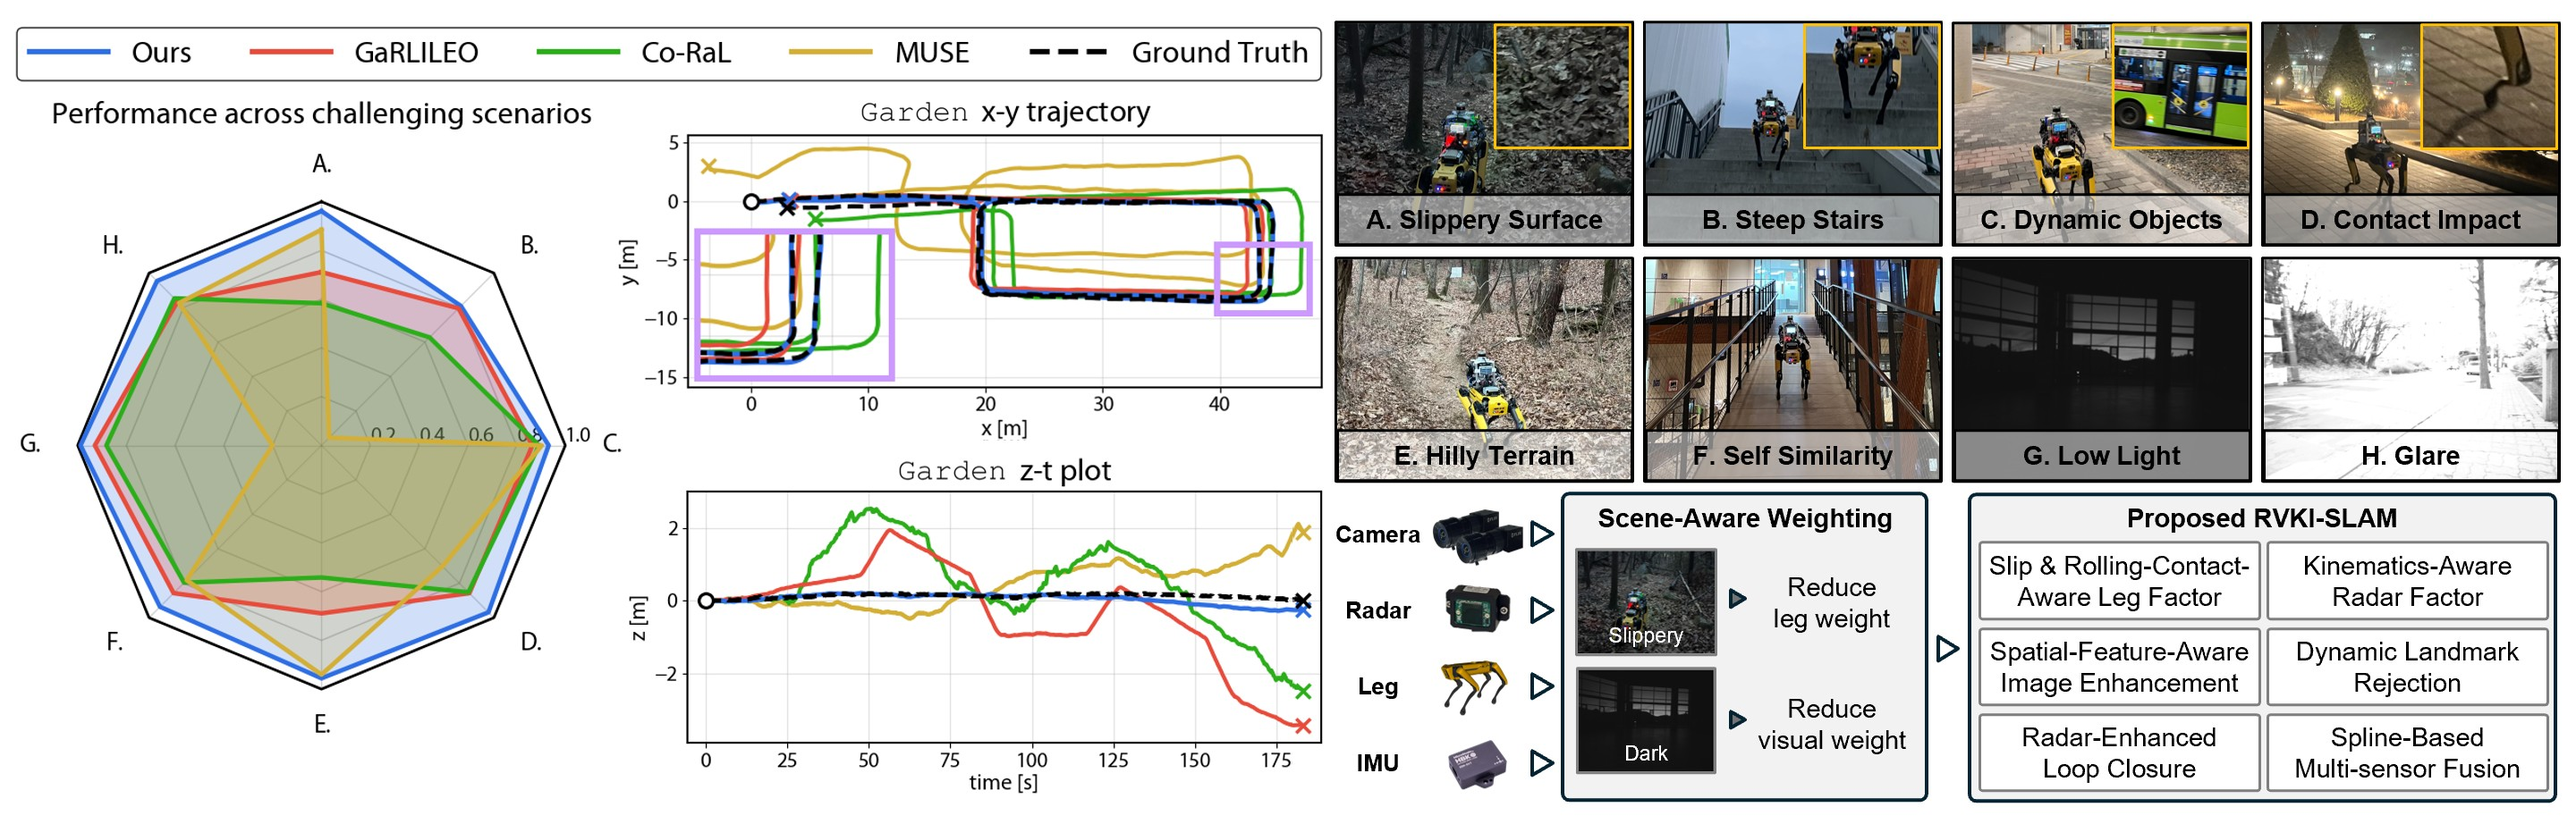
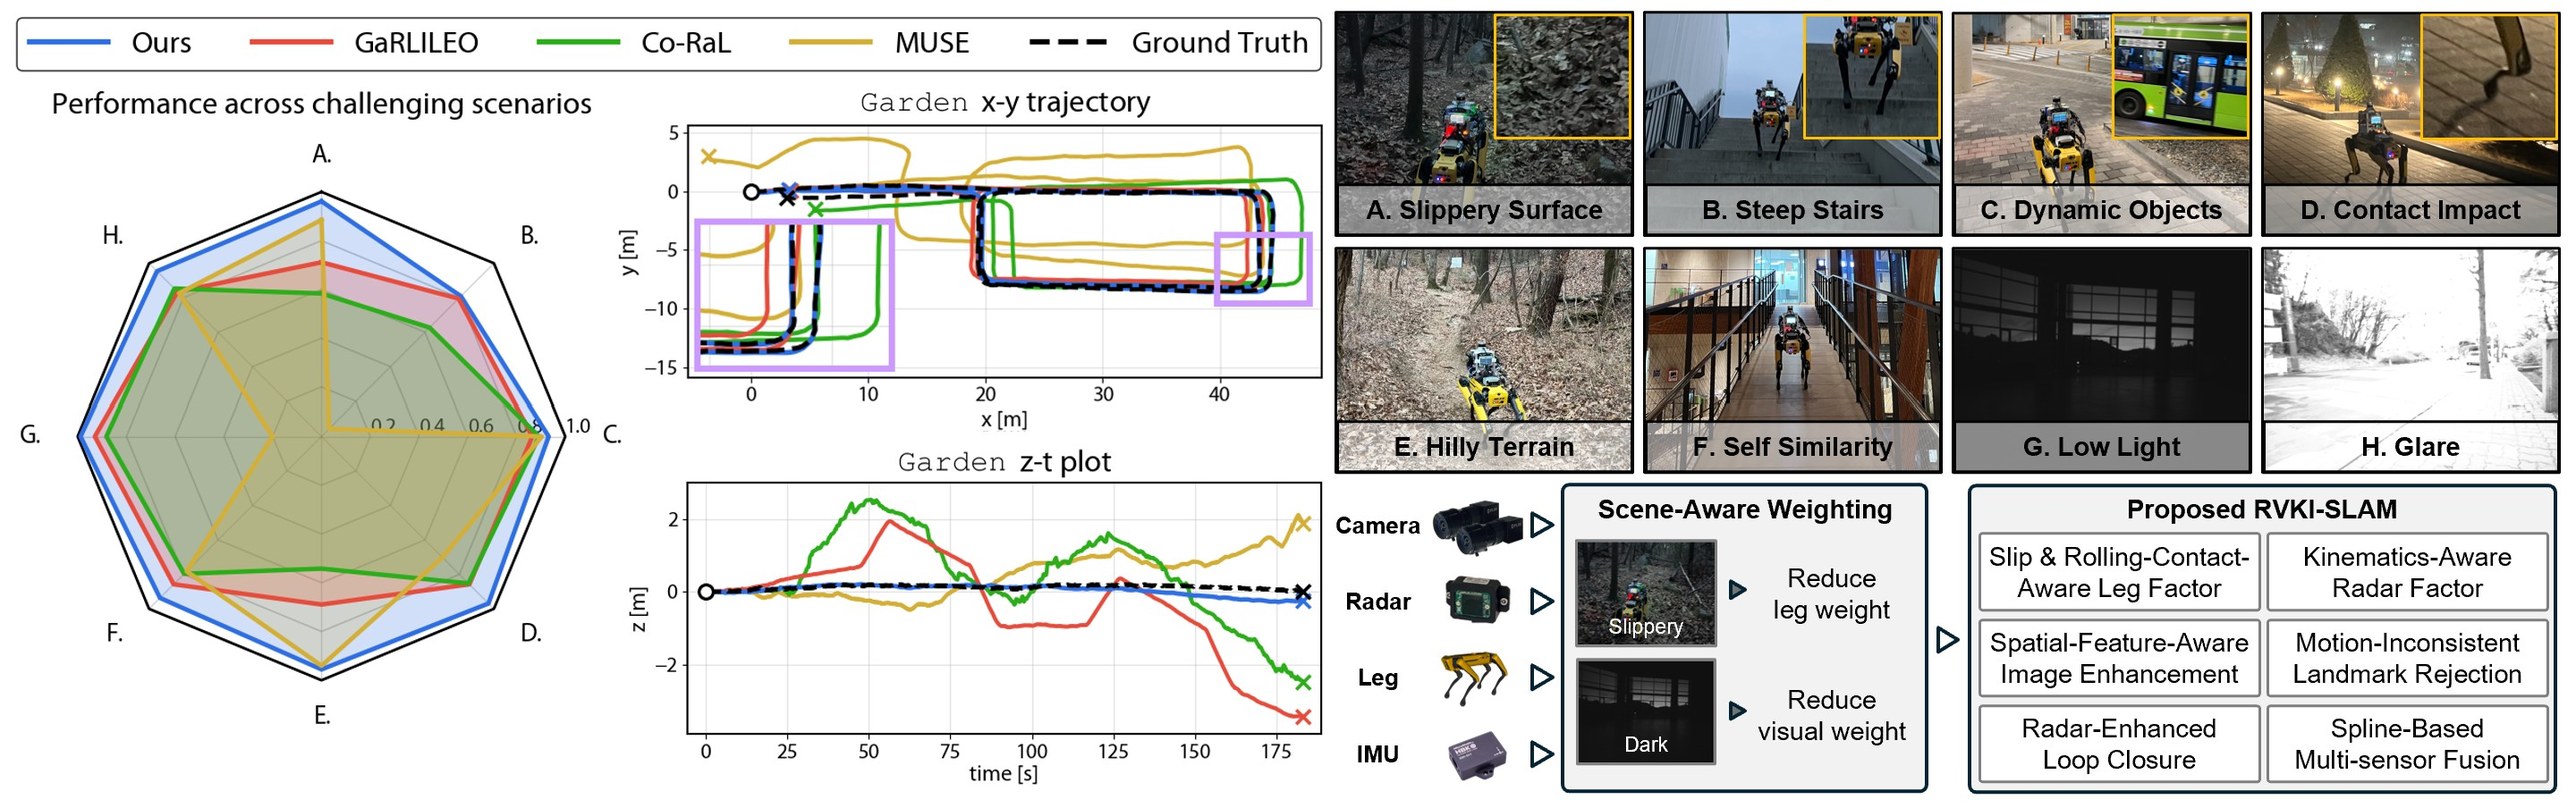
Update project page links, sensor table, and teaser figure

diff --git a/index.html b/index.html
@@ -25,7 +25,7 @@
   <!-- TODO: Same as description above -->
   <meta property="og:description" content="BRIEF_DESCRIPTION_OF_YOUR_RESEARCH_CONTRIBUTION_AND_FINDINGS">
   <!-- TODO: Replace with your actual website URL -->
-  <meta property="og:url" content="https://hanjun815.github.io/GaRLILEO/">
+  <meta property="og:url" content="https://ragnarok-rvki-slam.github.io/RAGNAROK/">
   <!-- TODO: Create a 1200x630px preview image and update path -->
   <meta property="og:image" content="https://YOUR_DOMAIN.com/static/images/social_preview.png">
   <meta property="og:image:width" content="1200">
@@ -306,7 +306,7 @@
 
                   <!-- TODO: Replace with your GitHub repository URL -->
                   <span class="link-block">
-                    <a href="https://github.com/ChiyunNoh/GaRLILEO" target="_blank"
+                    <a href="https://github.com/hanjun815/RAGNAROK" target="_blank"
                     class="external-link button is-normal is-rounded is-dark">
                     <span class="icon">
                       <i class="fab fa-github"></i>
@@ -376,7 +376,7 @@
     <div class="container">
       <figure class="has-text-centered">
         <img src="static/images/teaser_figure.jpg"
-             alt="Overall preview of GaRLILEO"
+             alt="Overall preview of RAGNAROK"
              style="max-width: 1100px; width: 100%; height: auto;" />
         <figcaption class="has-text-centered">
           <h2 class="subtitle" 
@@ -480,7 +480,7 @@
             </thead>
             <tbody>
               <tr>
-                <td>Depth camera</td>
+                <td>Stereo camera</td>
                 <td>RealSense</td>
                 <td>D455</td>
                 <td>
@@ -491,7 +491,7 @@
                 <td rowspan="5" style="vertical-align: middle;">Sensor Measurements</td>
               </tr>
               <tr>
-                <td>Stereo camera</td>
+                <td>Mono camera</td>
                 <td>FLIR</td>
                 <td>Blackfly S</td>
                 <td>

diff --git a/static/css/index.css b/static/css/index.css
@@ -116,6 +116,7 @@ body {
 /* Publication Content Styling */
 .publication-title {
     font-family: 'Inter', sans-serif !important;
+    font-size: 2.65rem !important;
     font-weight: 800 !important;
     color: var(--text-primary) !important;
     margin-bottom: 2rem !important;
@@ -609,7 +610,7 @@ code {
   }
   
   .publication-title {
-    font-size: 2.5rem !important;
+    font-size: 2.2rem !important;
     line-height: 1.2 !important;
     margin-bottom: 1.5rem !important;
   }
@@ -658,7 +659,7 @@ code {
 
 @media screen and (max-width: 480px) {
   .publication-title {
-    font-size: 2rem !important;
+    font-size: 1.75rem !important;
   }
   
   .hero-body {
